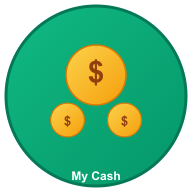
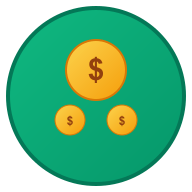
Fix: Corrigir ícone na tela inicial do celular
- Remover ícone SVG do manifest.json para evitar conflitos
- Usar apenas ícones PNG (192px e 512px) para melhor compatibilidade
- Recriar ícones PNG com design otimizado para tela inicial
- Atualizar service worker para v5
- Focar na solução do ícone marrom com V na tela do celular

diff --git a/public/sw.js b/public/sw.js
@@ -1,4 +1,4 @@
-const CACHE_NAME = 'mycash-v4';
+const CACHE_NAME = 'mycash-v5';
 const urlsToCache = [
   '/',
   '/manifest.json',
